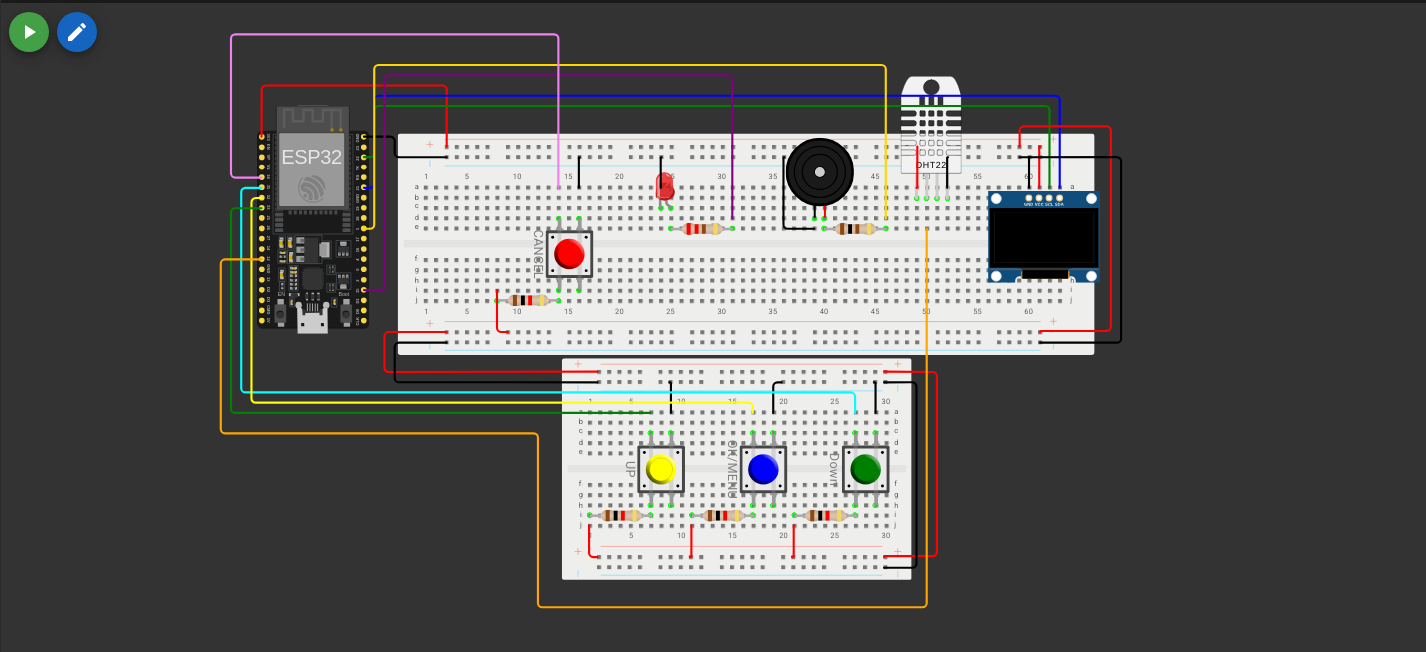
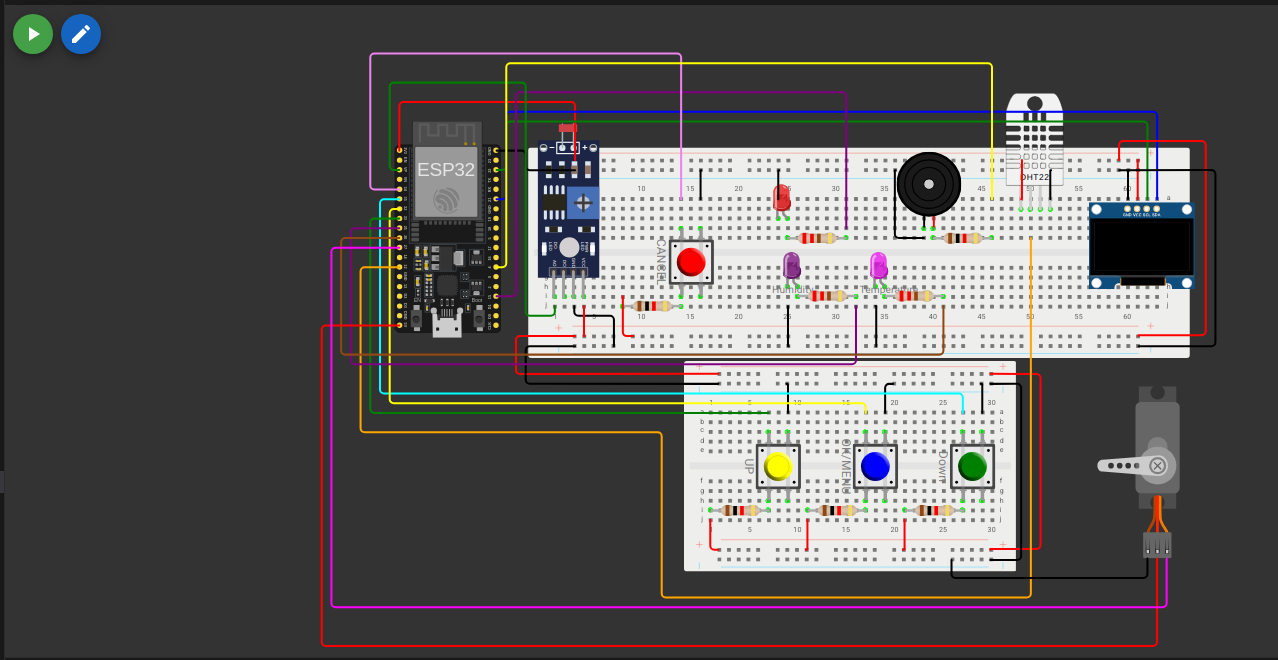
Implement code changes to enhance functionality and improve performance

diff --git a/Readme.md b/Readme.md
@@ -1,6 +1,6 @@
 # Smart MediBox
 
-This project, **Smart MediBox**, is part of the EN2853: Embedded Systems and Applications course. The Smart MediBox is designed to help users manage their medication schedules effectively by providing alarm notifications and temperature/humidity monitoring.
+This project, **Smart MediBox**, is part of the EN2853: Embedded Systems and Applications course. The Smart MediBox is designed to help users manage their medication schedules effectively by providing alarm notifications, temperature/humidity monitoring, and dynamic light intensity control.
 
 ---
 
@@ -13,6 +13,36 @@ This project, **Smart MediBox**, is part of the EN2853: Embedded Systems and App
 5. **Alarm Notifications**: Ring a buzzer and blink an LED when an alarm is triggered.
 6. **Snooze Functionality**: Snooze alarms for 5 minutes using a button.
 7. **Temperature and Humidity Monitoring**: Display warnings if the temperature or humidity goes out of range.
+8. **Light Intensity Monitoring**:
+   - Uses an LDR to measure light intensity.
+   - Readings are taken at a configurable sampling interval (default: 5 seconds).
+   - Average values are calculated over a configurable sending interval (default: 2 minutes) and sent to the Node-RED dashboard.
+   - Node-RED dashboard includes:
+     - Numerical display for the most recent average light intensity (range: 0 to 1).
+     - Chart to visualize historical average values.
+     - Sliders to adjust:
+       - Sampling interval (`ts`)
+       - Sending interval (`tu`)
+9. **Dynamic Shaded Sliding Window**:
+   - Prevents excessive light from entering the Medibox using a servo motor.
+   - Servo motor adjusts its angle (0–180°) based on light intensity and temperature.
+   - The angle is calculated using the equation:
+     ```
+     θ = θoffset + (180 − θoffset) × I × γ × ln(ts/tu) × T/Tmed
+     ```
+     Where:
+     - `θ`: Motor angle
+     - `θoffset`: Minimum angle (default: 30°)
+     - `I`: Light intensity (0 to 1)
+     - `γ`: Controlling factor (default: 0.75)
+     - `ts`: Sampling interval (seconds)
+     - `tu`: Sending interval (seconds)
+     - `T`: Measured temperature (°C)
+     - `Tmed`: Ideal storage temperature (default: 30°C)
+   - Node-RED dashboard includes sliders to adjust:
+     - Minimum angle (`θoffset`): 0–120°
+     - Controlling factor (`γ`): 0–1
+     - Ideal storage temperature (`Tmed`): 10–40°C
 
 ---
 
@@ -20,7 +50,7 @@ This project, **Smart MediBox**, is part of the EN2853: Embedded Systems and App
 
 ### Wokwi
 - The **Wokwi Simulator** was used to design and simulate the hardware components of the Smart MediBox.
-- Wokwi provides a virtual environment to test the ESP32, OLED display, DHT22 sensor, buzzer, and push buttons without requiring physical hardware.
+- Wokwi provides a virtual environment to test the ESP32, OLED display, DHT22 sensor, buzzer, servo motor, and push buttons without requiring physical hardware.
 - [Visit Wokwi](https://wokwi.com/) to learn more.
 - **View the Smart MediBox Project on Wokwi**: [Smart MediBox on Wokwi](https://wokwi.com/projects/426657665966733313)
 
@@ -34,8 +64,10 @@ This project, **Smart MediBox**, is part of the EN2853: Embedded Systems and App
 ## Hardware Components
 
 - **ESP32 DevKit v1**: Microcontroller for managing the system.
-- **SSD1306 OLED Display**: Displays time, alarms, and notifications.
+- **SSD1306 OLED Display**: Displays time, alarms, notifications, and light intensity information.
 - **DHT22 Sensor**: Monitors temperature and humidity.
+- **LDR**: Measures light intensity.
+- **Servo Motor**: Adjusts the shaded sliding window based on environmental conditions.
 - **Buzzer**: Provides audible alarm notifications.
 - **Push Buttons**: Used for menu navigation and alarm control.
 - **LED**: Blinks during alarm notifications.
@@ -55,13 +87,14 @@ This project, **Smart MediBox**, is part of the EN2853: Embedded Systems and App
 
 ## Images
 
-### MediBox Before Turning On
+### MediBox Simulation
 ![MediBox Before Turning On](assets/MediBoxBeforeOn.png)
 
-### MediBox in Action
-![MediBox in Action - 1](assets/MediBox2.png)
+### Flows
+![Flows.json](assets/Flows.png)
 
-![MediBox in Action - 2](assets/MediBox3.png)
+### Node-RED Dashboard
+![Dashboard](assets/Dashboard.png)
 
 ---
 
@@ -83,6 +116,16 @@ This project, **Smart MediBox**, is part of the EN2853: Embedded Systems and App
    - The system continuously monitors the environment.
    - Displays warnings if the temperature exceeds 32°C or drops below 24°C, or if the humidity goes out of the 65%-80% range.
 
+5. **Light Intensity Monitoring**:
+   - LDR readings are taken at regular intervals (default: 5 seconds).
+   - Average values are calculated over a configurable period (default: 2 minutes) and sent to the Node-RED dashboard.
+   - The dashboard includes a numerical display, chart, and sliders for configuration.
+
+6. **Dynamic Shaded Sliding Window**:
+   - The servo motor adjusts the window angle based on light intensity and temperature.
+   - The angle is calculated using the environmental equation provided above.
+   - Users can adjust parameters (`θoffset`, `γ`, `Tmed`) via the Node-RED dashboard.
+
 ---
 
 ## Circuit Diagram
@@ -98,6 +141,7 @@ The circuit diagram for the Smart MediBox is available in the Wokwi simulator.
 3. Connect the hardware components as per the circuit diagram.
 4. Build and upload the code to the ESP32.
 5. Use the buttons to navigate the menu and set alarms.
+6. Configure light intensity monitoring and sliding window parameters via the Node-RED dashboard.
 
 ---
 
